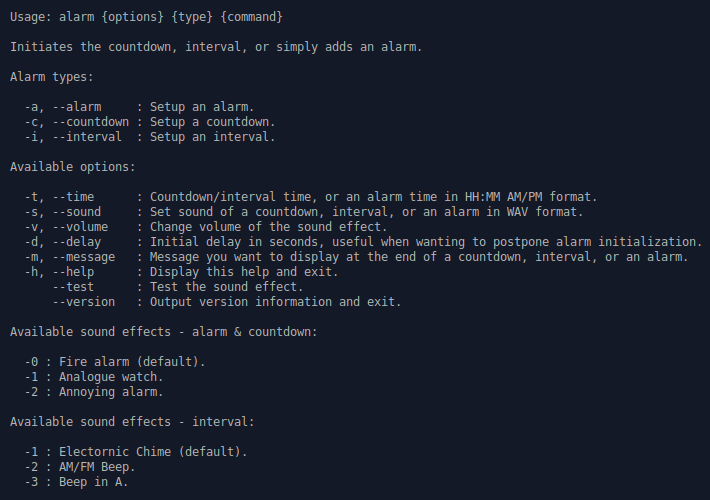
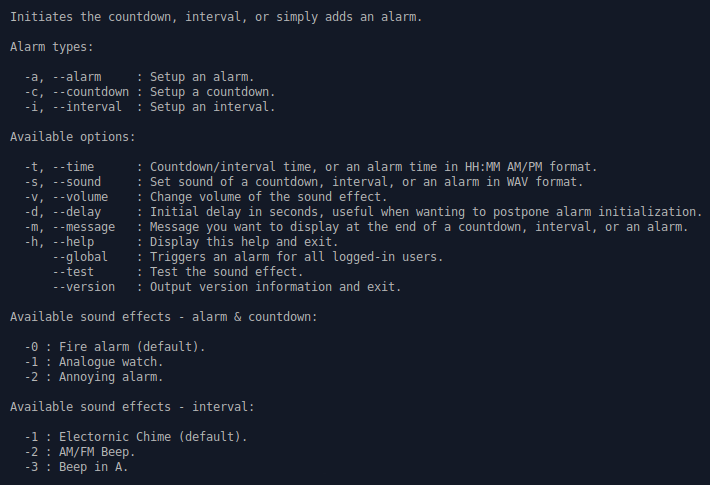
Added parameter for triggering alarms globally.

Changed region(s): [[0.0, 0.0, 0.9915, 0.6804], [0.0, 0.7113, 0.3718, 0.866], [0.031, 0.8969, 0.3408, 0.9897]]

diff --git a/README.md b/README.md
@@ -111,6 +111,14 @@ You can display a custom message when the alarm is triggered using the "-m" flag
 bash ./alarm.sh -t 10s -m "My alarm message!" -c
 ```
 
+### Example 10 - Global Alarms
+
+If you want to set a countdown, interval, or an alarm that will trigger for all logged-in users, you should use the "--global" flag.
+
+```bash
+bash ./alarm.sh --global -t 1m -c
+```
+
 ## Alias
 
 If you plan to use the script everyday, you should probably create an alias.
